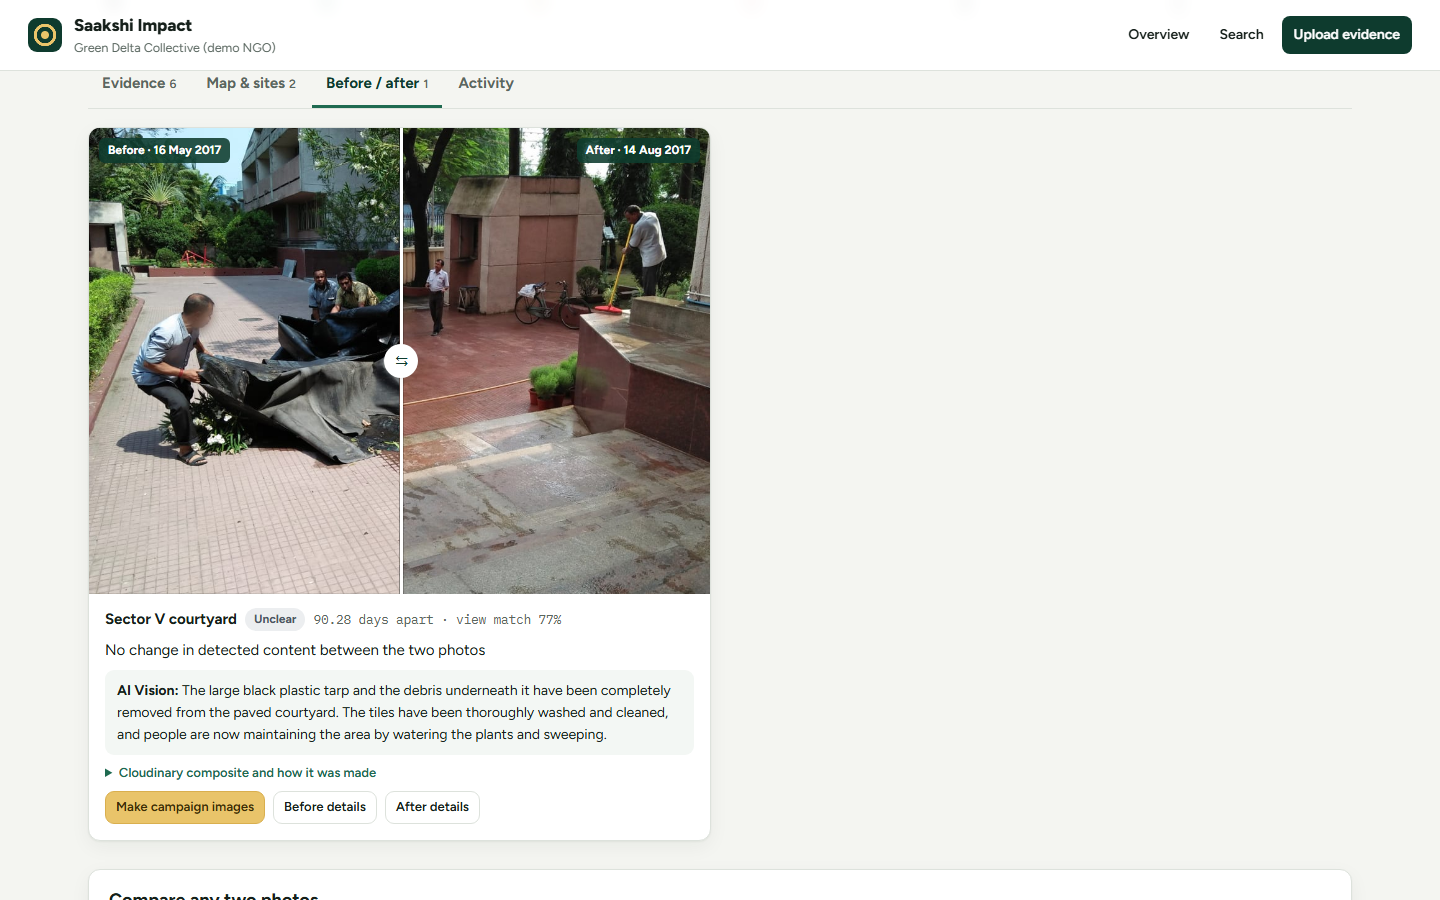
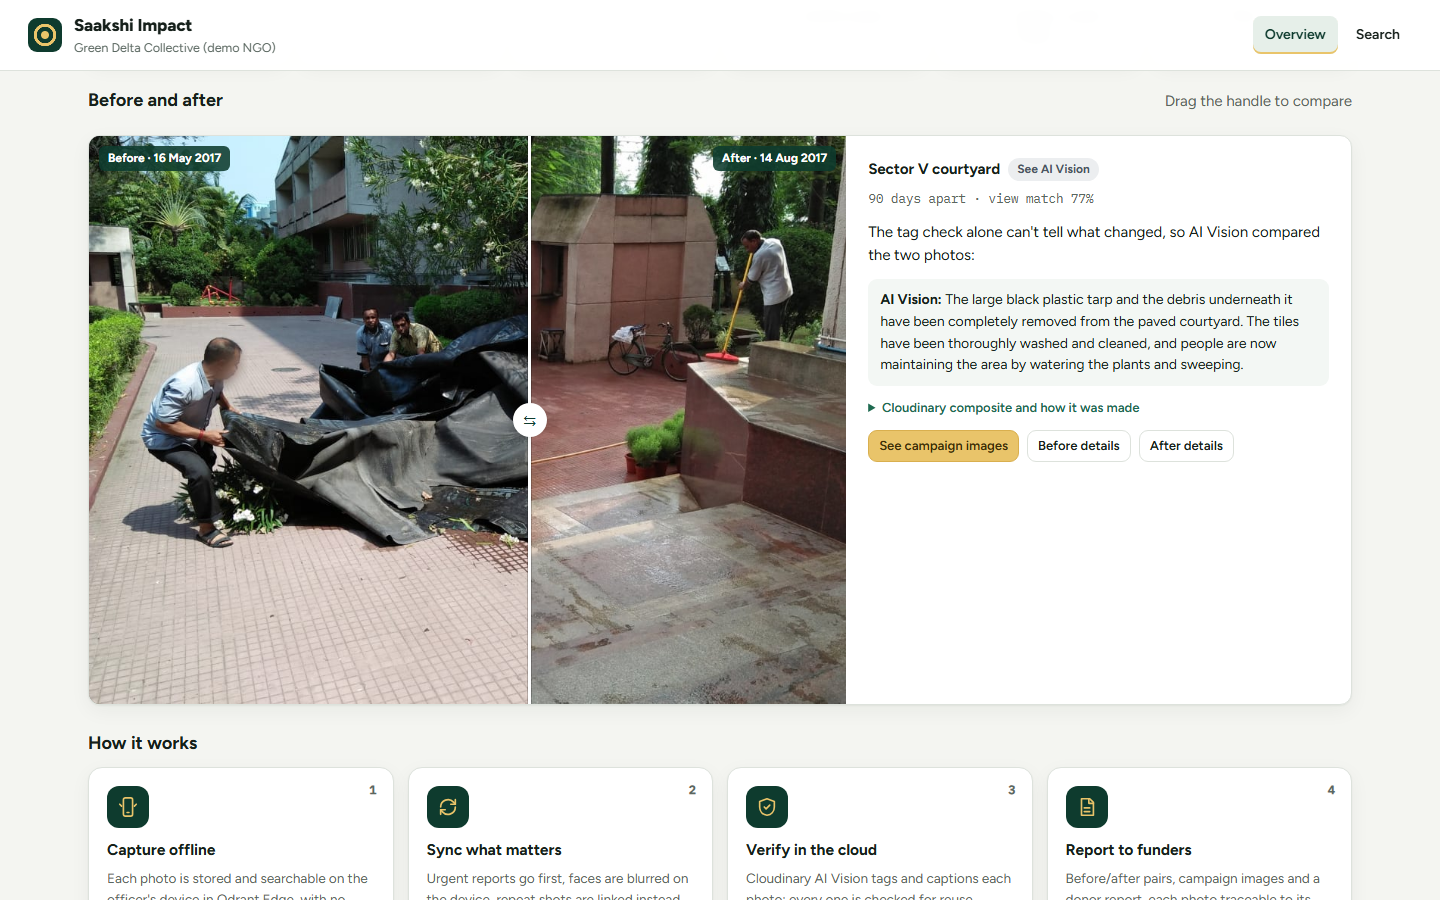
README: live demo up front, screenshots of the live site, team without LinkedIn, test counts

diff --git a/README.md b/README.md
@@ -10,6 +10,8 @@
 
 *Saakshi* (साक्षी / সাক্ষী) means **witness**.
 
+**Live demo: [saakshi-impact.onrender.com](https://saakshi-impact.onrender.com)**, the NGO office dashboard (read-only; the first visit after a quiet spell takes about a minute to wake up). The field app runs on the officer's device: [run it yourself](#run-it) in a few minutes.
+
 NGO and CSR field teams prove their work with photos: embankments planted, ponds cleaned, drains unblocked. The photos are taken where the network is weak or gone, and they decide wages, grants and trust. Today they pile up in phone galleries and WhatsApp groups that strip their location, nobody in the field can search what a colleague already reported, an urgent "the embankment is breached" photo waits behind forty routine ones, and a photo reused from another project looks exactly like new evidence.
 
 Saakshi is one system in two parts:
@@ -84,7 +86,7 @@ flowchart LR
 ```
 
 1. **Capture offline.** GPS and time come from the photo; it is placed on a project and site, faces are detected, and it becomes a point in the device's Qdrant Edge shard (CLIP image vector, BM25 vector of the note, payload). Searchable immediately, network or not.
-2. **Search and ask offline.** Dense + keyword search fused with RRF, recency and distance re-scoring (Qdrant formulas), geo and payload filters, MMR for variety, across the device's own shard and its region mirrors. **Ask** answers questions like "what is the latest at Pond A?" from that memory, citing each photo.
+2. **Search and ask offline.** Dense + keyword search fused with RRF, recency and distance re-scoring (Qdrant formulas), geo and payload filters, MMR for variety, across the device's own shard and its region mirrors. **Ask** answers questions like "what is the latest at the plantation strip?" from that memory, citing each photo.
 3. **Decide what leaves, and say why.** Private items never leave; faces without consent leave only blurred; repeat shots are linked; urgent reports jump the queue; on a measured slow link routine photos wait or go compressed. Vectors (a few KB) always go first.
 4. **Sync by region.** The server keeps one shard per project region (custom sharding). Devices mirror only their regions: a snapshot the first time, then just the changed points, or a partial snapshot when many changed; nothing when nothing changed.
 5. **Verify in the cloud, and bring the verdict back.** Cloudinary AI Vision tags and captions each photo; it is checked against every earlier submission, the project area and dates. The verdict is written into the shared point and reaches the officer's device, and colleagues' devices, on the next pull.
@@ -117,13 +119,15 @@ Every requirement mapped to code, tests and the demo, plus the engineering decis
 | Reliable insights | **Integrity score** per photo: camera metadata, GPS inside the project area, date inside the project window, editing software, blur, and **reuse detection** (SHA-256, pHash/dHash, CLIP) across all projects. |
 
 <p align="center">
-  <img src="docs/screenshots/impact-overview.png" width="49%" alt="Impact overview">
-  <img src="docs/screenshots/impact-before-after.png" width="49%" alt="Before and after">
+  <img src="docs/screenshots/impact-overview.png" width="49%" alt="Impact overview: what the platform does and the numbers from the evidence">
+  <img src="docs/screenshots/impact-before-after.png" width="49%" alt="Before and after with a slider and the AI Vision description of the change">
+  <img src="docs/screenshots/impact-evidence.png" width="49%" alt="A reused photo flagged: near-identical photo already submitted for another project">
+  <img src="docs/screenshots/impact-map.png" width="49%" alt="Project areas and photo locations on the map">
 </p>
 
 ## Run it
 
-**Live demo (Saakshi Impact): https://saakshi-impact.onrender.com** (free plan: the first visit after a quiet spell takes about a minute to wake up). This public demo is read-only to protect the AI quota: browse the evidence, before/after pairs, reports and provenance, or run it on your own machine as below. To fit the free plan's memory, search on the server matches notes, AI tags and captions; image search with CLIP runs on the field devices.
+**Live demo (Saakshi Impact): https://saakshi-impact.onrender.com** (free plan: the first visit after a quiet spell takes about a minute to wake up). It shows the sample evidence: 17 photos from two devices, their integrity checks, the reused photo that was flagged, a before/after pair with the AI Vision description of the change, campaign images with faces blurred, the project map and a donor report. It is read-only to protect the AI quota; to capture, sync and upload, run it on your own machine as below. To fit the free plan's memory, search on the server matches notes, AI tags and captions; image search with CLIP runs on the field devices.
 
 **One command** (Docker): Qdrant in cluster mode, the cloud app, and two field devices.
 
@@ -151,9 +155,9 @@ Deploying for real (Qdrant Cloud + Render + Cloudinary, laptops, Raspberry Pi fi
 ## Tests and benchmarks
 
 ```bash
-pytest                                                         # 76 tests, no network needed
+pytest                                                         # 78 tests, no network needed
 QDRANT_TEST_URL=http://127.0.0.1:6333 \
-QDRANT_CLUSTER_TEST_URL=http://127.0.0.1:6433 pytest           # 89: + end-to-end sync against real Qdrant servers
+QDRANT_CLUSTER_TEST_URL=http://127.0.0.1:6433 pytest           # 91: + end-to-end sync against real Qdrant servers
 # against Qdrant Cloud: set both URLs to the cluster and QDRANT_TEST_API_KEY to its key
 ruff check .                                                   # lint rules in ruff.toml
 python -m bench.run_all --server http://127.0.0.1:6333 --cluster http://127.0.0.1:6433
@@ -190,12 +194,12 @@ docs/                  WHY, PS03 deep dive, benchmarks, comparison, deploy, setu
 
 ## Team
 
-| Name | Role | Links |
+| Name | Role | GitHub |
 |---|---|---|
-| Sudip Manna | Team leader; cloud platform: Cloudinary pipeline and Impact backend (PS02) | [GitHub](https://github.com/Sudip-005) · [LinkedIn](https://linkedin.com/in/...) |
-| Rishi Ghosal | Architect and lead developer: edge memory, sync engine, benchmarks and system integration | [GitHub](https://github.com/rishighosal) · [LinkedIn](https://linkedin.com/in/...) |
-| Agnibha Kundu | Frontend & UX: both UIs, tour, PWA, screenshots | [GitHub](https://github.com/Agnibhakundu350) · [LinkedIn](https://linkedin.com/in/...) |
-| Subhankar Nandi | DevOps, testing & docs | [GitHub](https://github.com/Subhankarnandi777) · [LinkedIn](https://linkedin.com/in/...) |
+| Sudip Manna | Team leader; cloud platform: Cloudinary pipeline and Impact backend (PS02) | [@Sudip-005](https://github.com/Sudip-005) |
+| Rishi Ghosal | Architect and lead developer: edge memory, sync engine, benchmarks and system integration | [@rishighosal](https://github.com/rishighosal) |
+| Agnibha Kundu | Frontend & UX: both UIs, tour, PWA, screenshots | [@Agnibhakundu350](https://github.com/Agnibhakundu350) |
+| Subhankar Nandi | DevOps, testing & docs | [@Subhankarnandi777](https://github.com/Subhankarnandi777) |
 
 Built for **Code Cubicle 6.0** (Geek Room).
 
